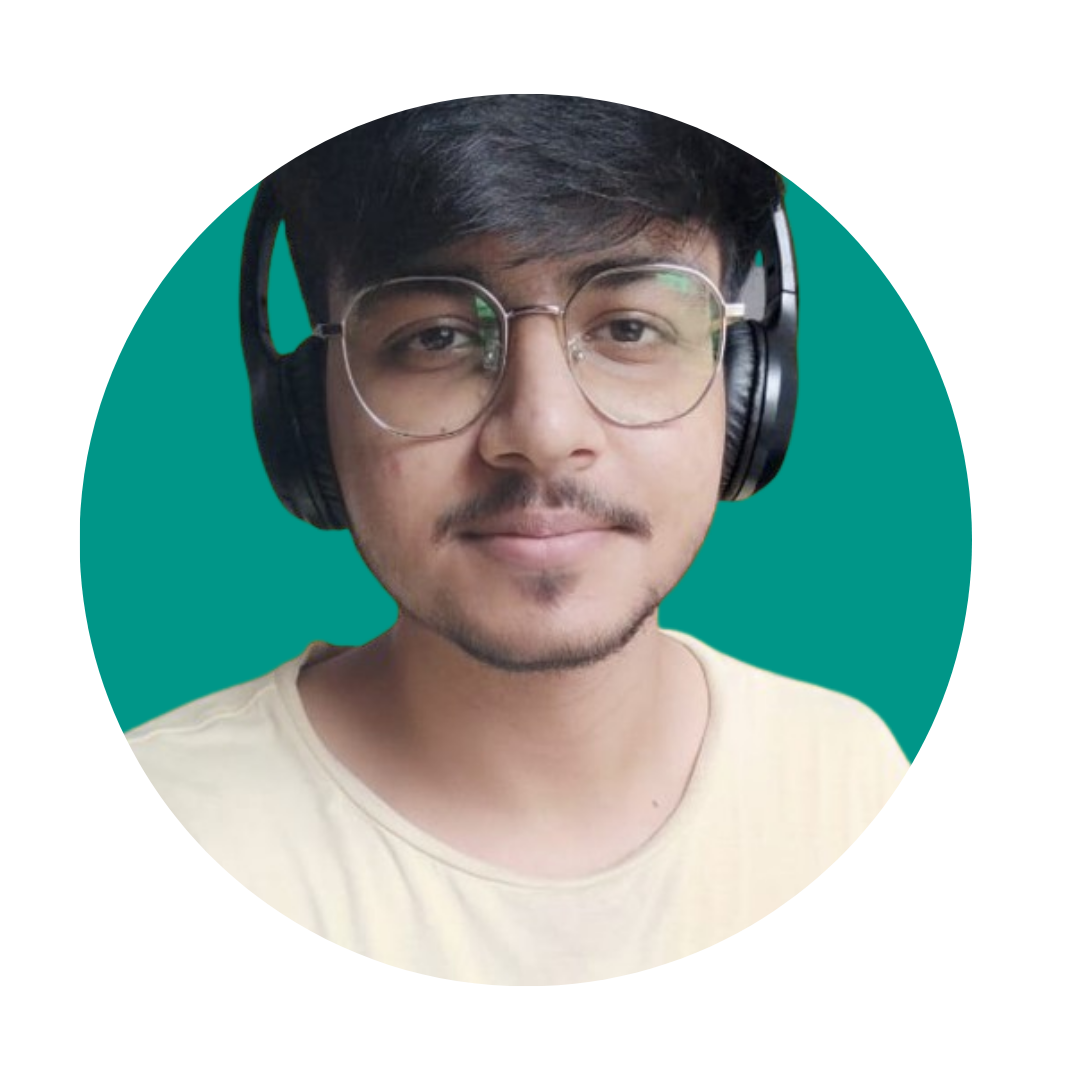
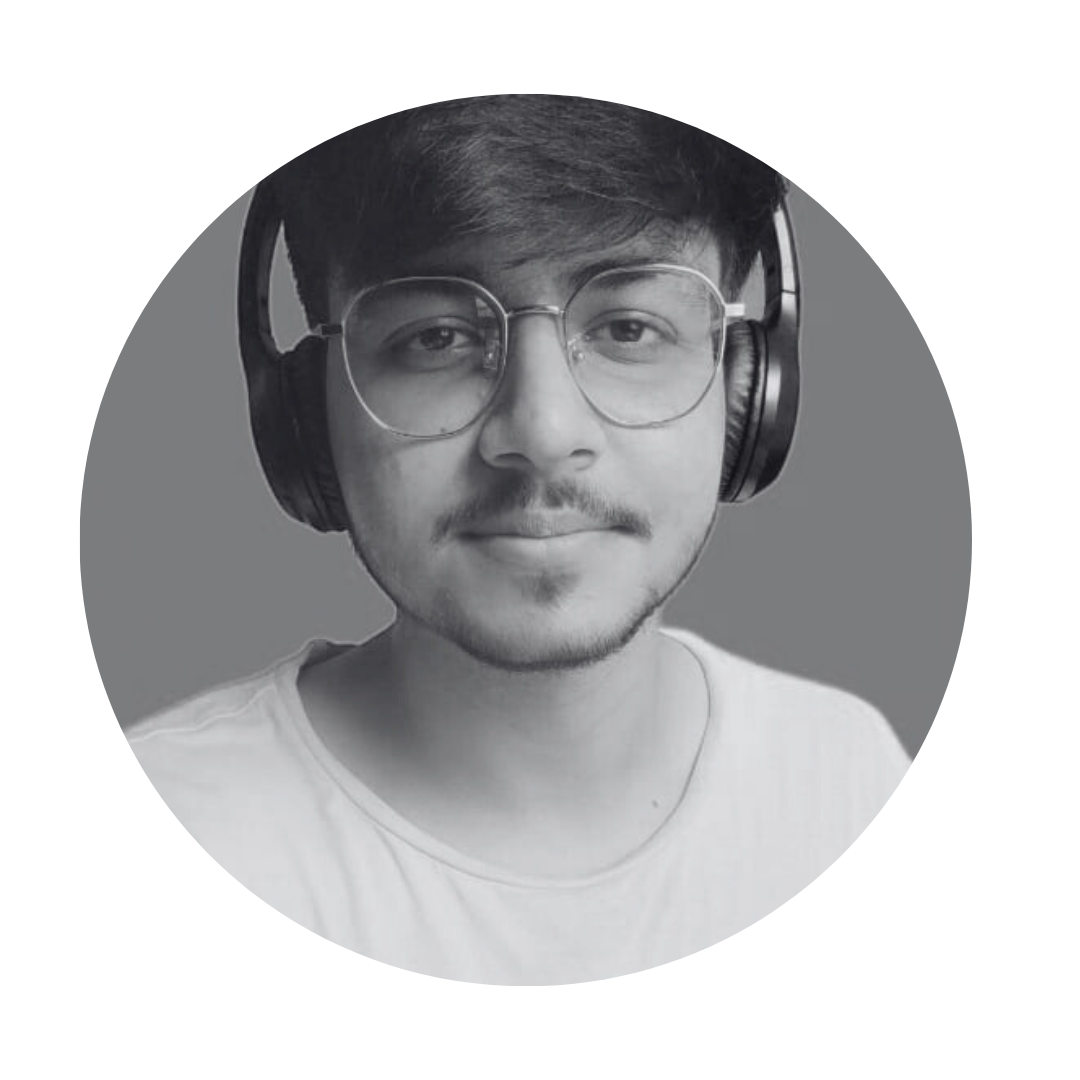
Update Profile Section

diff --git a/style.css b/style.css
@@ -42,7 +42,7 @@ nav {
 .nav-links {
     gap: 2rem;
     list-style: none;
-    font-size: 1.5rem;
+    font-size: 1.20rem;
 }
 
 a {
@@ -59,7 +59,7 @@ a:hover {
 }
 
 .logo {
-    font-size: 2rem;
+    font-size: 1.15rem;
 }
 
 .logo:hover {
@@ -161,7 +161,7 @@ section {
 #profile {
     display: flex;
     justify-content: center;
-    gap: 5rem;
+    gap: 6rem;
     height: 80vh;
 }
 
@@ -186,14 +186,34 @@ section {
 }
 
 .section__text__p2 {
-   font-size: 1.5rem;
+   font-size: 1rem;
    margin-bottom: 1rem;
+}
+.title {
+    font-size: 2.75rem;
+    text-align: center;
 }
 
 .title {
-    font-size: 3rem;
-    text-align: center;
+    position: relative;
 }
+
+.title::after {
+    content: "";
+    position: absolute;
+    left: 0;
+    height: 100%;
+    width: 100%;
+    background: white;
+    border-left: 1px solid orange;
+    animation: typing 2.5s steps(15) infinite;
+}
+@keyframes typing {
+    100%{
+       left: 100%;
+       margin: 0 -35px 0 35px;
+    }
+} 
 
 #socials-container {
     display: flex;

diff --git a/index.html b/index.html
@@ -9,7 +9,7 @@
 </head>
 <body>
     <nav id="desktop-nav">
-       <div class="logo">Pratham Verma</div>
+       <div class="logo">Pratham Verma.</div>
        <div>
         <ul class="nav-links">
             <li><a href="#about">About</a></li>
@@ -40,7 +40,7 @@
     </nav>
     <section id="profile">
         <div class="section__pic-container">
-             <img src = "./assets/dp1.png" alt="Profile Picture">
+             <img src = "./assets/dp2.png" alt="Profile Picture">
         </div>
         <div class="section__text">
             <p class="section__text__p1">Hello, I'm</p>
